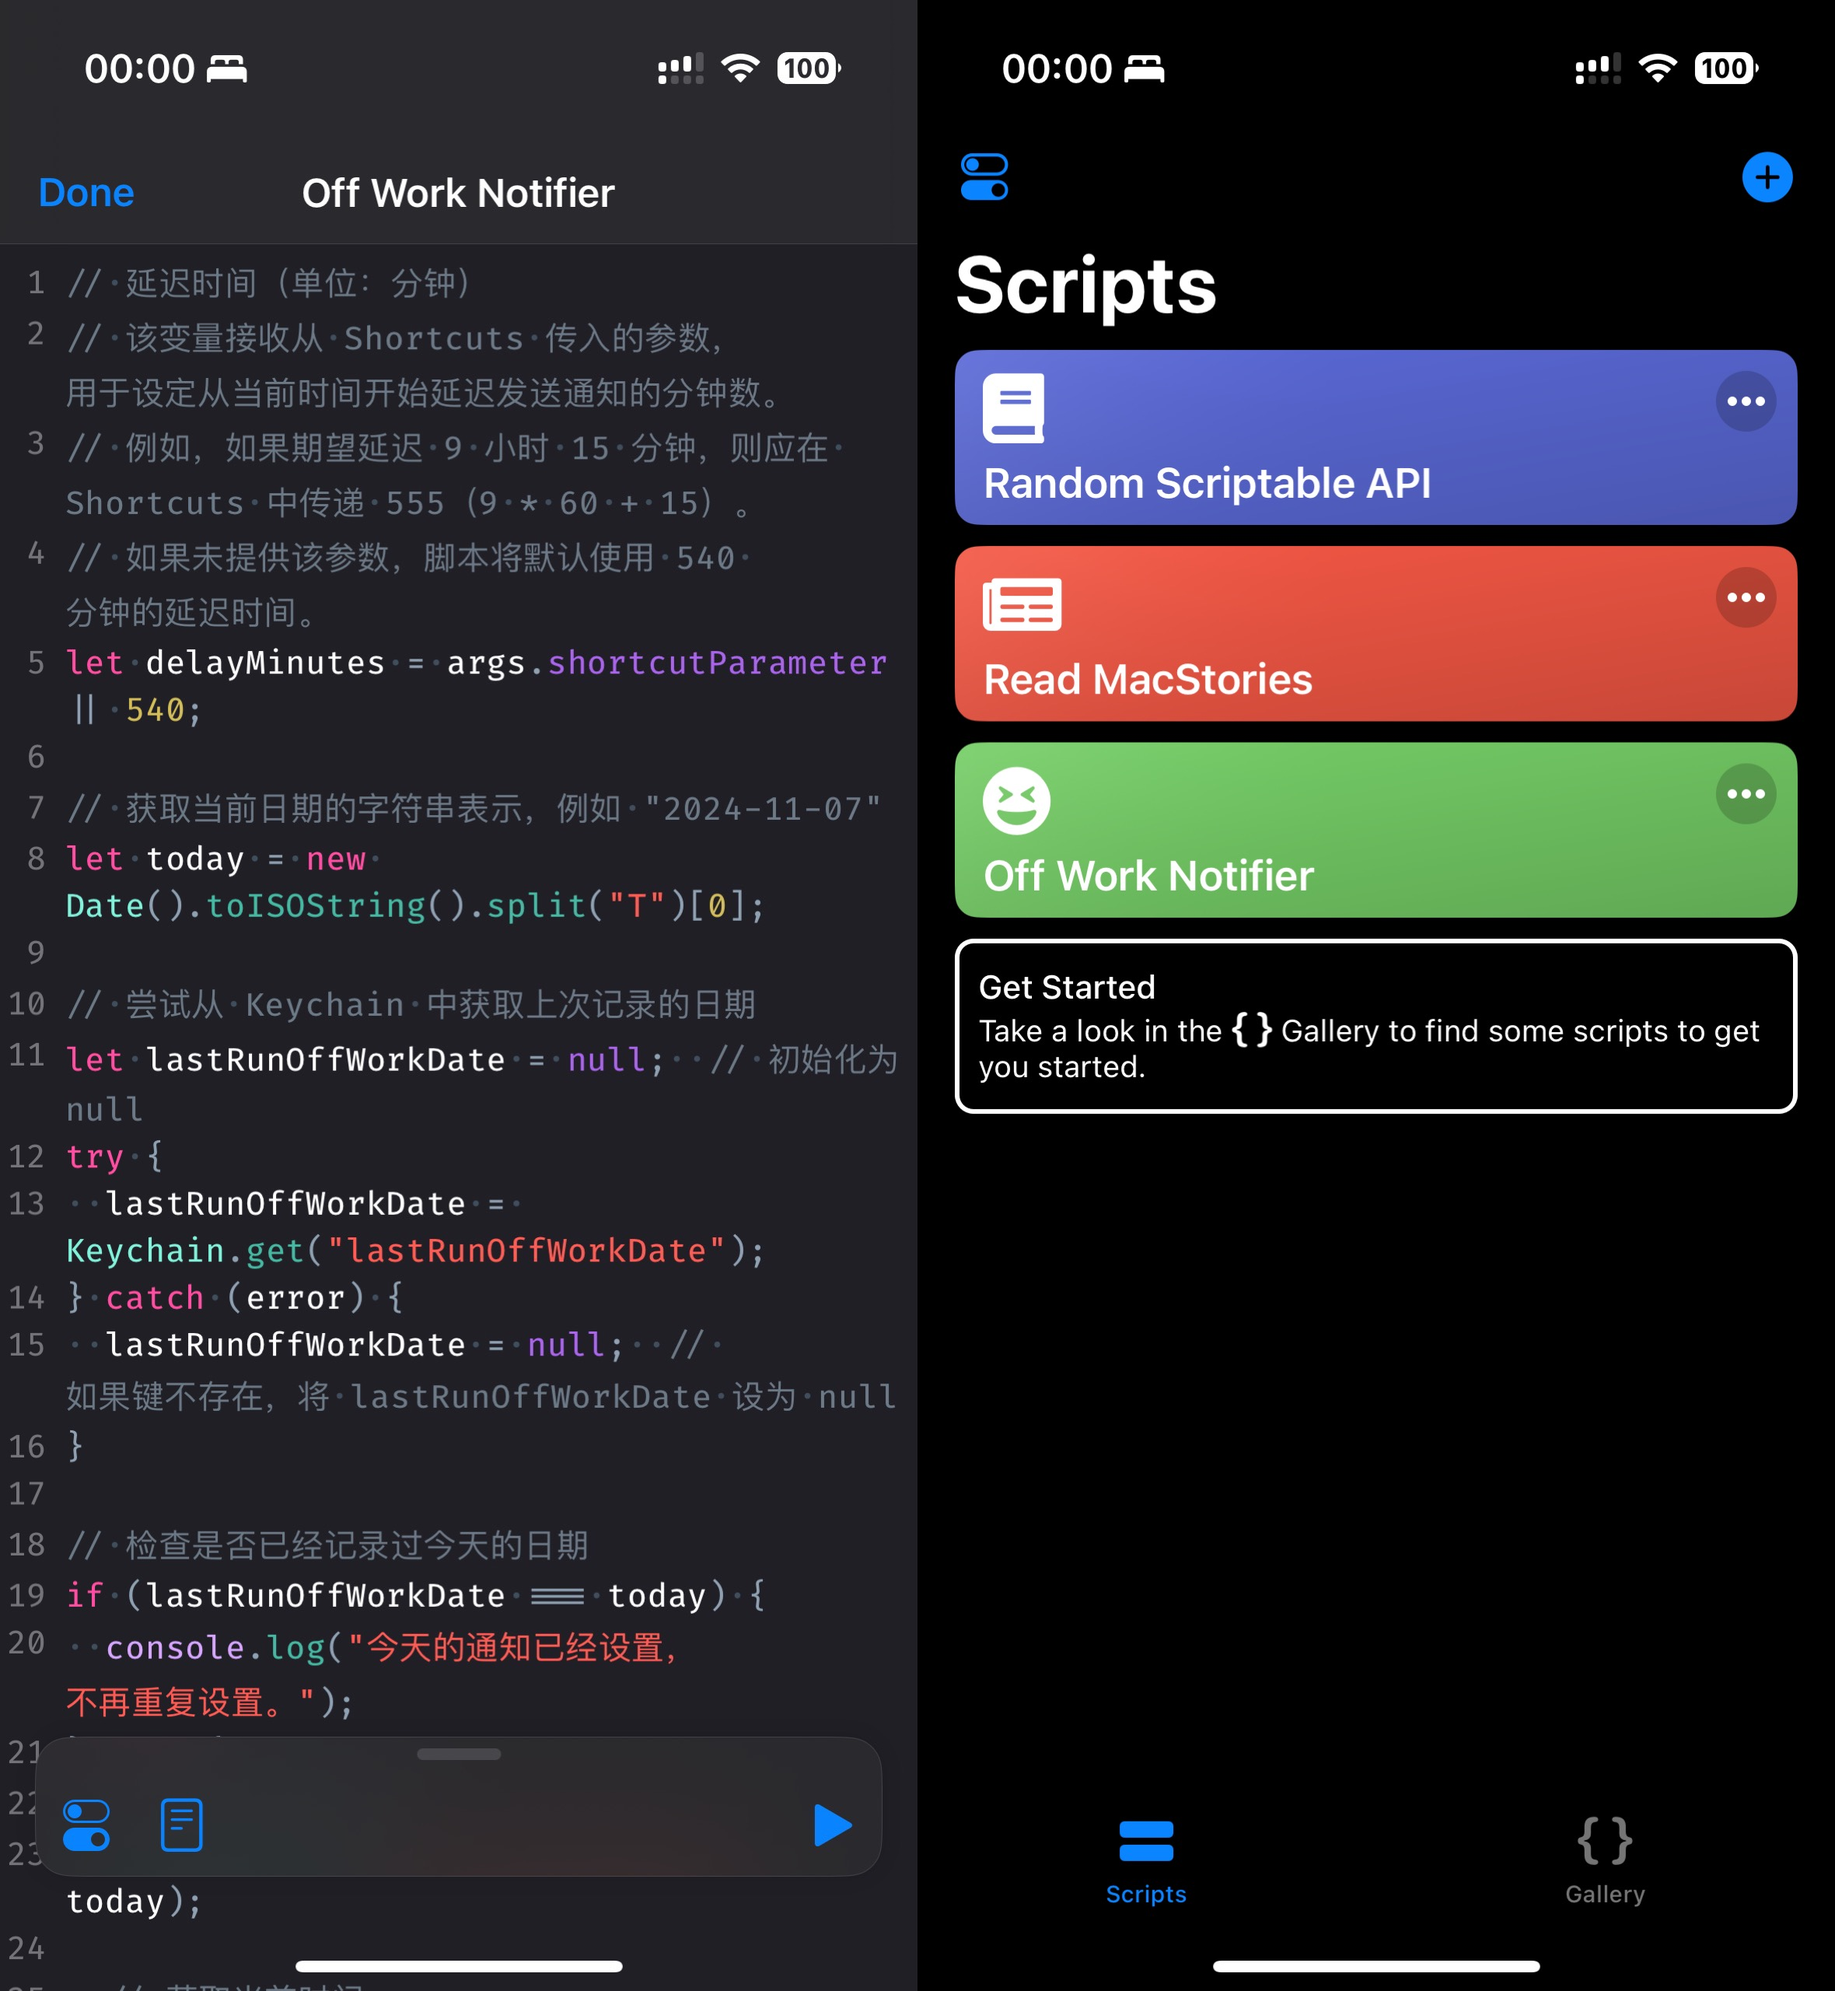
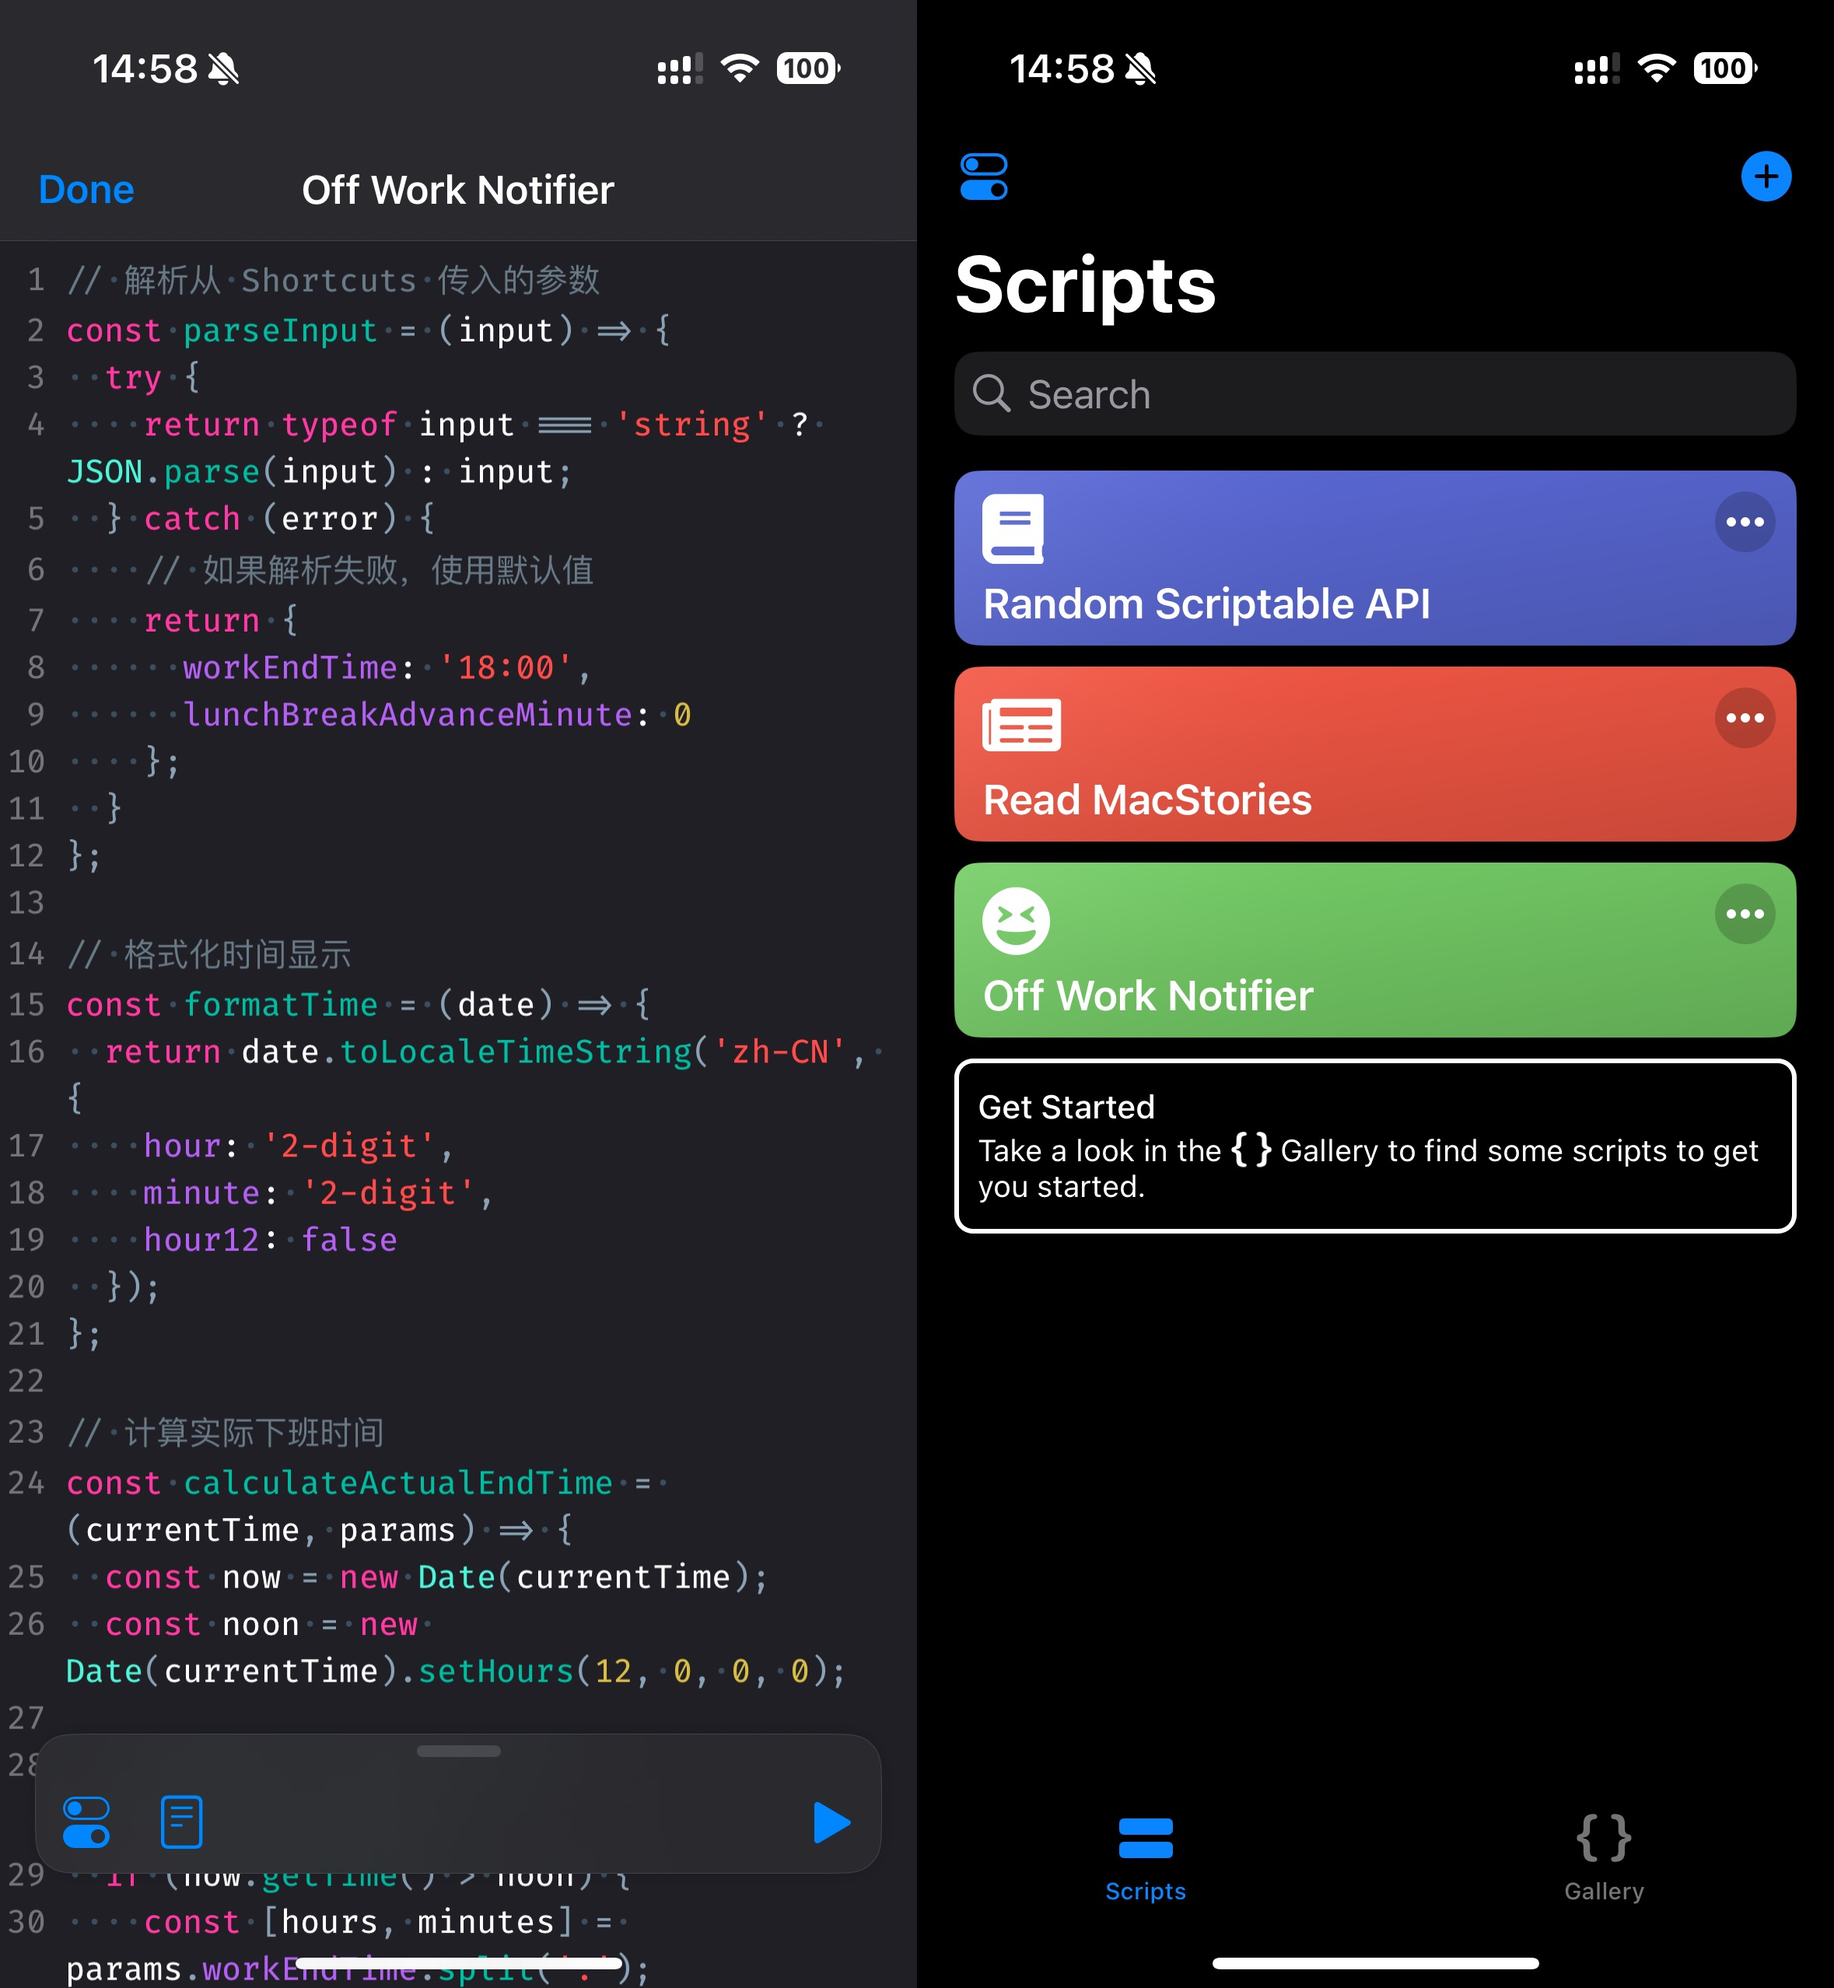
feat: refactor work end time calculation with lunch break handling
- Replace fixed delay time with flexible work end time calculation
- Add lunch break advance time parameter to handle early lunch breaks
- Implement different logic for connections before/after noon
- Add parameter validation notification for debugging
- Use Shortcuts Dictionary as input format

diff --git a/scripts/off-work-notifier.js b/scripts/off-work-notifier.js
@@ -1,0 +1,90 @@
+// 解析从 Shortcuts 传入的参数
+const parseInput = (input) => {
+  try {
+    return typeof input === 'string' ? JSON.parse(input) : input;
+  } catch (error) {
+    // 如果解析失败，使用默认值
+    return {
+      workEndTime: '18:00',
+      lunchBreakAdvanceMinute: 0
+    };
+  }
+};
+
+// 格式化时间显示
+const formatTime = (date) => {
+  return date.toLocaleTimeString('zh-CN', {
+    hour: '2-digit',
+    minute: '2-digit',
+    hour12: false
+  });
+};
+
+// 计算实际下班时间
+const calculateActualEndTime = (currentTime, params) => {
+  const now = new Date(currentTime);
+  const noon = new Date(currentTime).setHours(12, 0, 0, 0);
+
+  // 如果是 12 点后连接 WiFi，直接使用设定的下班时间
+  if (now.getTime() > noon) {
+    const [hours, minutes] = params.workEndTime.split(':');
+    const endTime = new Date(currentTime);
+    endTime.setHours(parseInt(hours), parseInt(minutes), 0, 0);
+    return endTime;
+  }
+
+  // 如果是 12 点前，需要补足提前午休的时间
+  const [hours, minutes] = params.workEndTime.split(':');
+  const endTime = new Date(currentTime);
+  endTime.setHours(parseInt(hours), parseInt(minutes), 0, 0);
+  return new Date(endTime.getTime() + (params.lunchBreakAdvanceMinute * 60 * 1000));
+};
+
+// 获取当前日期的字符串表示
+let today = new Date().toISOString().split("T")[0];
+
+// 尝试从 Keychain 中获取上次记录的日期，初始化为 null
+let lastRunOffWorkDate = null;
+try {
+  lastRunOffWorkDate = Keychain.get("lastRunOffWorkDate");
+} catch (error) {
+  // 如果键不存在，将 lastRunOffWorkDate 设为 null
+  lastRunOffWorkDate = null;
+}
+
+// 检查是否已经记录过今天的日期
+if (lastRunOffWorkDate === today) {
+  console.log("今天的通知已经设置，不再重复设置。");
+} else {
+  // 记录今天的日期
+  Keychain.set("lastRunOffWorkDate", today);
+
+  const params = parseInput(args.shortcutParameter);
+  // 获取当前时间
+  const currentTime = new Date();
+  // 设定上班时间为 9 点
+  const workStartTime = new Date().setHours(9, 0, 0, 0);
+
+  // 如果于 9 点前到达，将到达时间设为 9 点
+  const effectiveStartTime = currentTime < workStartTime ? new Date(workStartTime) : currentTime;
+
+  // 计算实际下班时间
+  const reminderTime = calculateActualEndTime(effectiveStartTime, params);
+
+  // 计划在下班时发送一条通知
+  let scheduledOffWorkNotification = new Notification();
+  scheduledOffWorkNotification.title = "下班啦";
+  scheduledOffWorkNotification.body = "时间到了，可以下班了！";
+  scheduledOffWorkNotification.setTriggerDate(reminderTime);
+  await scheduledOffWorkNotification.schedule();
+
+  console.log("通知已设置，将在 " + formatTime(reminderTime) + " 提醒你下班。");
+
+  // 设置完计划通知后，立即发送一次确认通知，告知当日下班时间
+  let immediateConfirmNotification = new Notification();
+  immediateConfirmNotification.title = "通知已设置";
+  immediateConfirmNotification.body = "今天的下班时间是：" + formatTime(reminderTime);
+  await immediateConfirmNotification.schedule();
+}
+
+Script.complete();

diff --git a/README.md b/README.md
@@ -10,10 +10,19 @@ Off Work Reminder 是一个用于 iOS 的自动化下班提醒工具。它结合
 
 - **Shortcuts 自动化**：当我们的手机连接到指定的公司 Wi-Fi 时，自动触发快捷指令。
 
-- **传递延时参数**：快捷指令将定时通知的预计延迟分钟数传递给 Scriptable 中的 `Off Work Notifier` 脚本。
-  - 比如 9:00 上班，18:00 下班，工作时长 8 小时，午休 1 小时，那么在 9:00 连接至公司 Wi-Fi 时，需要传递 540 分钟（9 小时）给 `Off Work Notifier` 脚本。
+- **参数传递**：快捷指令将包含下班时间和提前午休时间的字典（Dictionary）传递给 Scriptable 中的 `Off Work Notifier` 脚本。
 
-- **Scriptable 脚本**：`Off Work Notifier` 脚本获取当前时间，在满足延时设定的工作时长后，推送下班通知。
+  - `workEndTime`：规定下班时间，例如 "18:00"
+
+  - `lunchBreakAdvanceMinute`：提前进入午休的分钟数，例如提前 15 分钟下楼吃午饭则设为 15
+
+- **Scriptable 脚本**：`Off Work Notifier` 脚本根据当前连接 Wi-Fi 的时间和传入的参数计算实际下班时间：
+
+  - 如果是 9 点前到达，将以 09:00 作为开始上班的时间
+
+  - 如果是 12 点前连接，将考虑提前午休的时间，延后下班时间
+
+  - 如果是 12 点后连接，将直接使用设定的下班时间发送提醒
 
 ## 操作步骤
 
@@ -28,16 +37,16 @@ Off Work Reminder 是一个用于 iOS 的自动化下班提醒工具。它结合
 
     - 打开 Scriptable 应用，点击右上角 + 创建一个新的脚本。
 
-    - 将 [`Off Work Notifier`](./scripts/off-wor-notifier.js) 文件中的代码复制并粘贴进去。
+    - 将 [`Off Work Notifier`](./scripts/off-work-notifier.js) 文件中的代码复制并粘贴进去。
 
     - 将脚本重命名为 `Off Work Notifier` 后选择 Done。
 
-2. 创建一个快捷指令或是直接在[这个指令的基础上](https://www.icloud.com/shortcuts/00a8a272eff046cd99b80a2d104dec63)进行修改
+2. 创建一个快捷指令或是直接在[这个指令的基础上](https://www.icloud.com/shortcuts/826ef9a8e1494a9e99701f9b0e96511b)进行修改
 
     <details>
     <summary>截图</summary>
 
-    ![Shortcuts Setup](./assets/shortcuts_setup.PNG)
+    ![Shortcuts Setup](./assets/shortcuts_setup.JPG)
 
     </details>
 
@@ -45,9 +54,13 @@ Off Work Reminder 是一个用于 iOS 的自动化下班提醒工具。它结合
 
     2. 添加以下两步操作：
 
-        1. 搜索并选择 Documents > Text，设置延时的总分钟数（例如，9 小时即 540 分钟）并存入变量 `Delay Minutes`。
+        1. 添加 Dictionary 动作，设置两个键值对：
 
-        2. 搜索并选择 Scriptable > Run Script `Off Work Notifier` 脚本，并将 `Delay Minutes` 作为参数传递给脚本。
+           - `workEndTime`: 文本类型，设置为预期下班时间，如 "18:00"
+
+           - `lunchBreakAdvanceMinute`: 数字类型，设置提前午休的分钟数，如 15
+
+        2. 搜索并选择 Scriptable > Run Script `Off Work Notifier` 脚本，并将创建的 Dictionary 作为参数传递给脚本。
 
 3. 设置 Automation
 
@@ -68,7 +81,7 @@ Off Work Reminder 是一个用于 iOS 的自动化下班提醒工具。它结合
 
 - 首次运行检测：该脚本每个自然日只会在第一次连接公司 Wi-Fi 时设置定时通知，有效避免重复提醒。
 
-- 自定义时间：在 Shortcuts 中更新 `Delay Minutes` 的值即可调整提醒时间。
+- 自定义时间：在 Shortcuts 中更新 Dictionary 的值即可调整下班时间和提前午休时间。
 
 - 手动测试：你可以手动运行 Off Work Setup 快捷指令进行测试。
 
